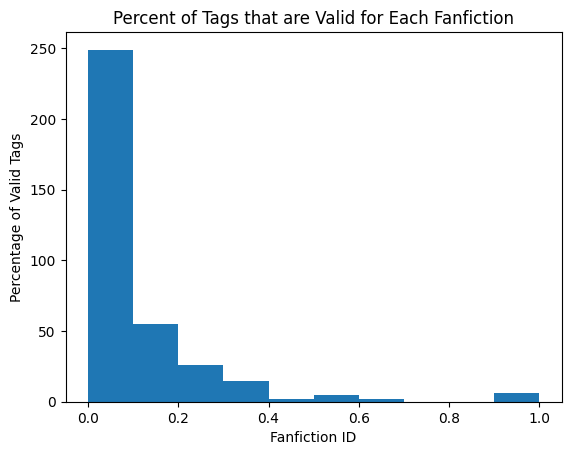
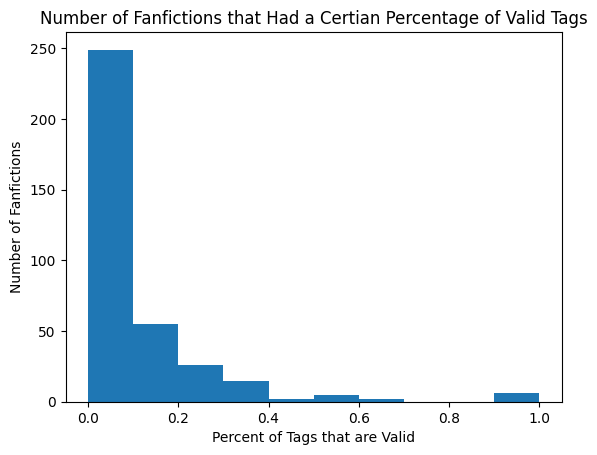
prep for presentation

diff --git a/evaluate.py b/evaluate.py
@@ -280,9 +280,9 @@ y = new_y
 ax.bar(x,y, width=0.1, align="edge")
 # plt.setp( ax.xaxis.get_majorticklabels(), rotation=45, ha="right" )
 # plt.xticks(rotation = 45, size = 7)
-plt.title("Percent of Tags that are Valid for Each Fanfiction")
-plt.xlabel("Fanfiction ID")
-plt.ylabel("Percentage of Valid Tags")
+plt.title("Number of Fanfictions that Had a Certian Percentage of Valid Tags")
+plt.xlabel("Percent of Tags that are Valid")
+plt.ylabel("Number of Fanfictions")
 plt.savefig("percentValid_plot.png", bbox_inches='tight')
 
 
